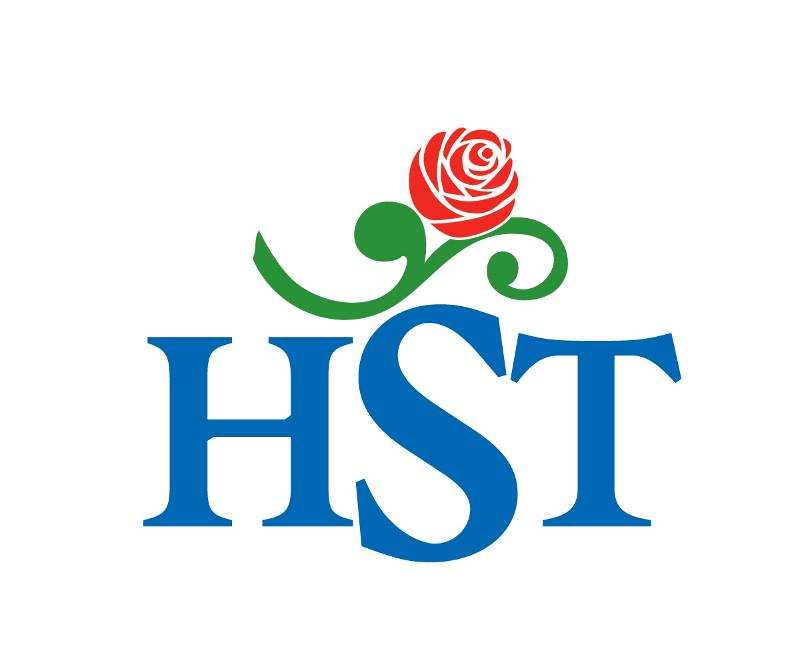
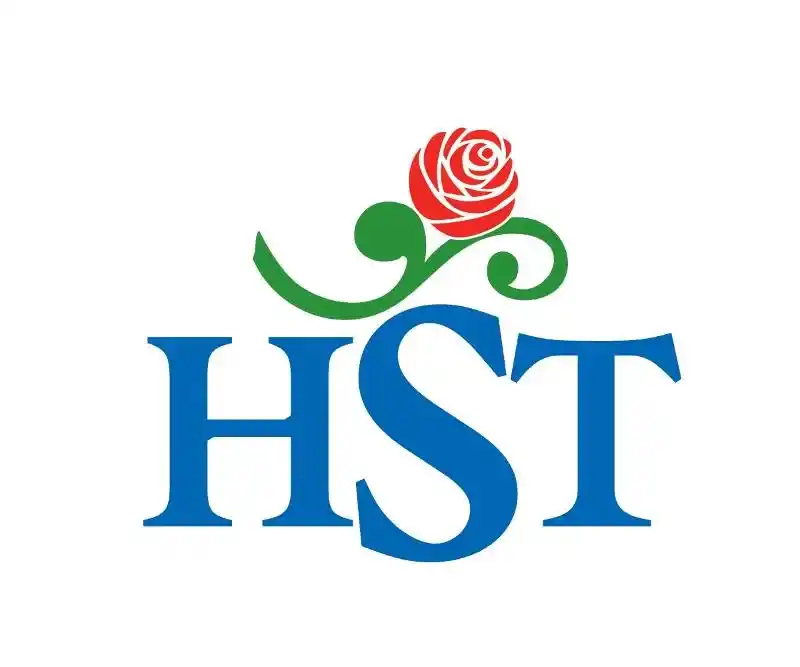
update compress img

Changed region(s): [[0.5, 0.1799, 0.6562, 0.3598], [0.4688, 0.4498, 0.5, 0.4798]]

diff --git a/src/components/Minimal-Area/minimal-area.jsx b/src/components/Minimal-Area/minimal-area.jsx
@@ -10,7 +10,7 @@ const MinimalArea = () => {
             <div className="col-lg-6 wow fadeInUp" data-wow-delay=".5s">
               <div className="img">
                 <img
-                  src="/img/tr/usinas/usina-vitoria-2.png"
+                  src="/img/tr/usinas/usina-vitoria-2.webp"
                   className=""
                   alt="TR Energia Time"
                 />
